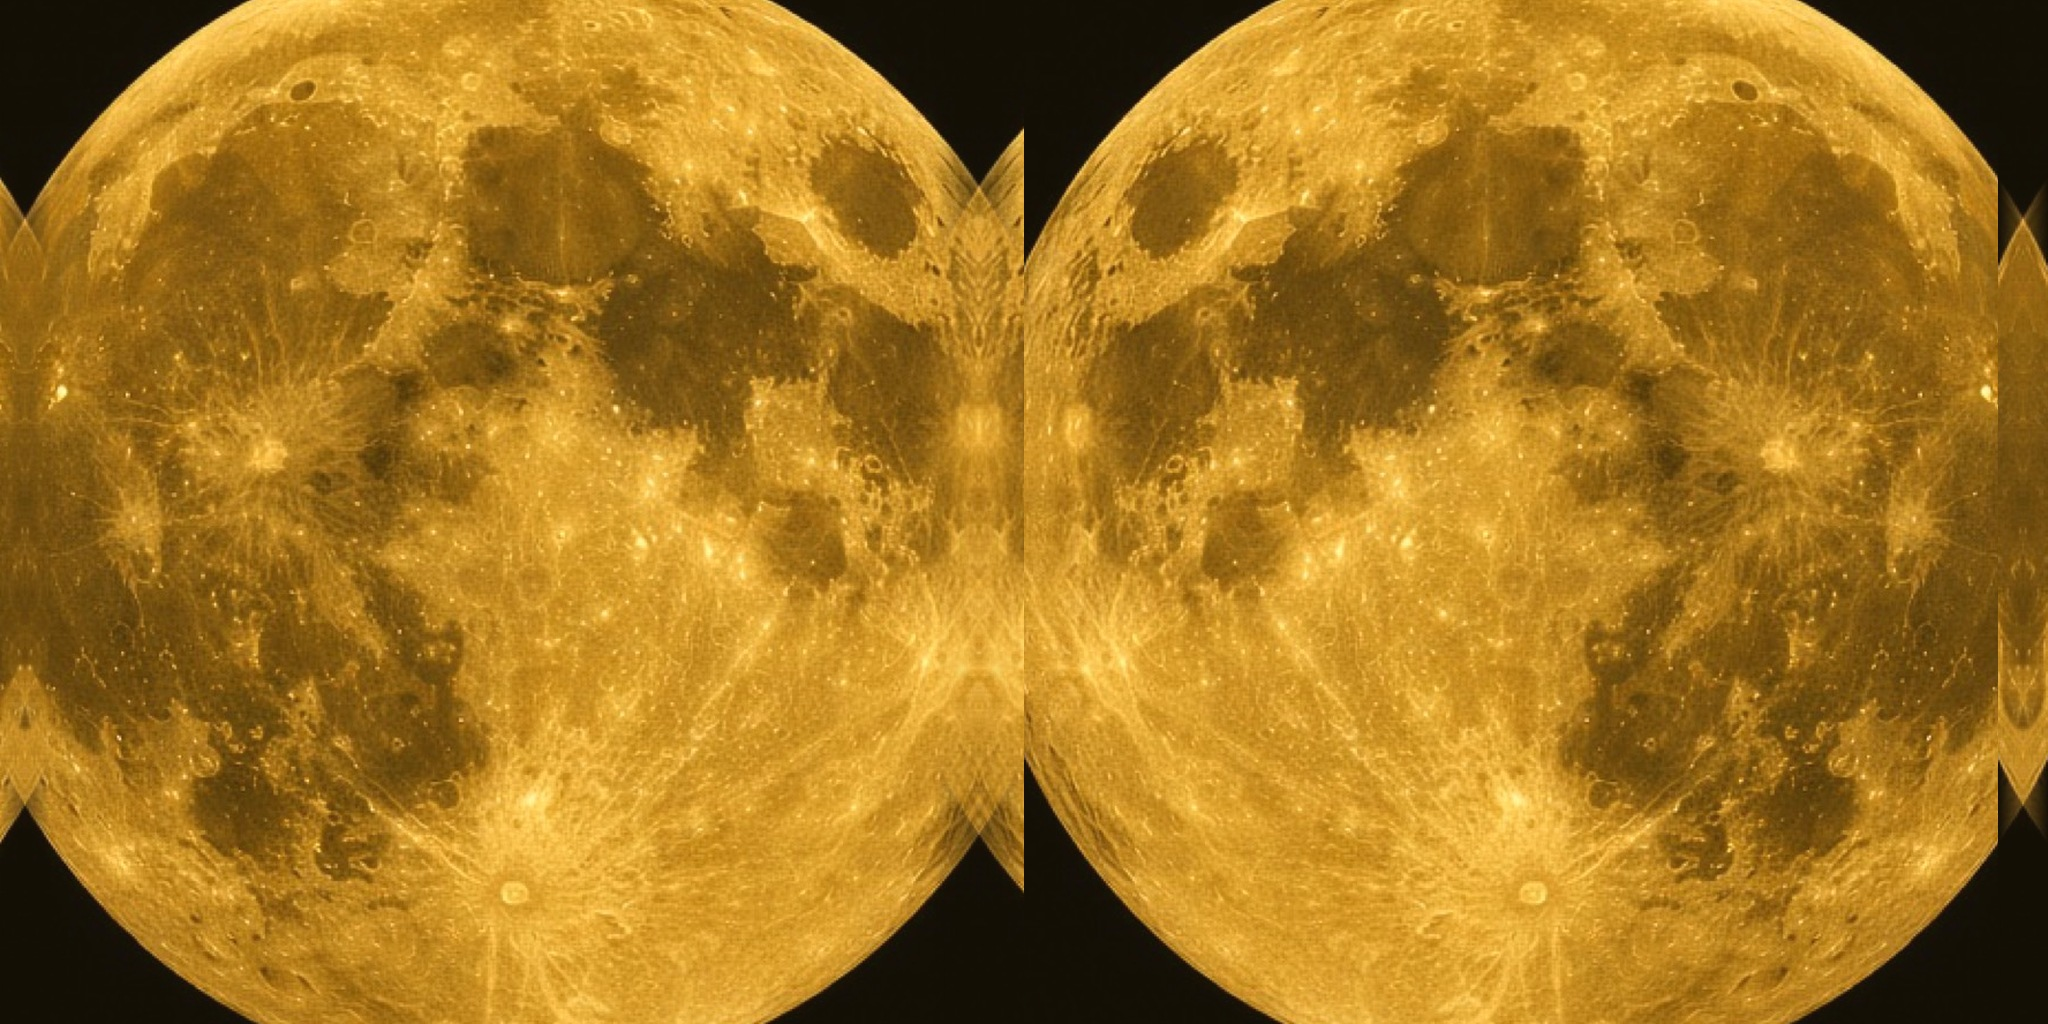
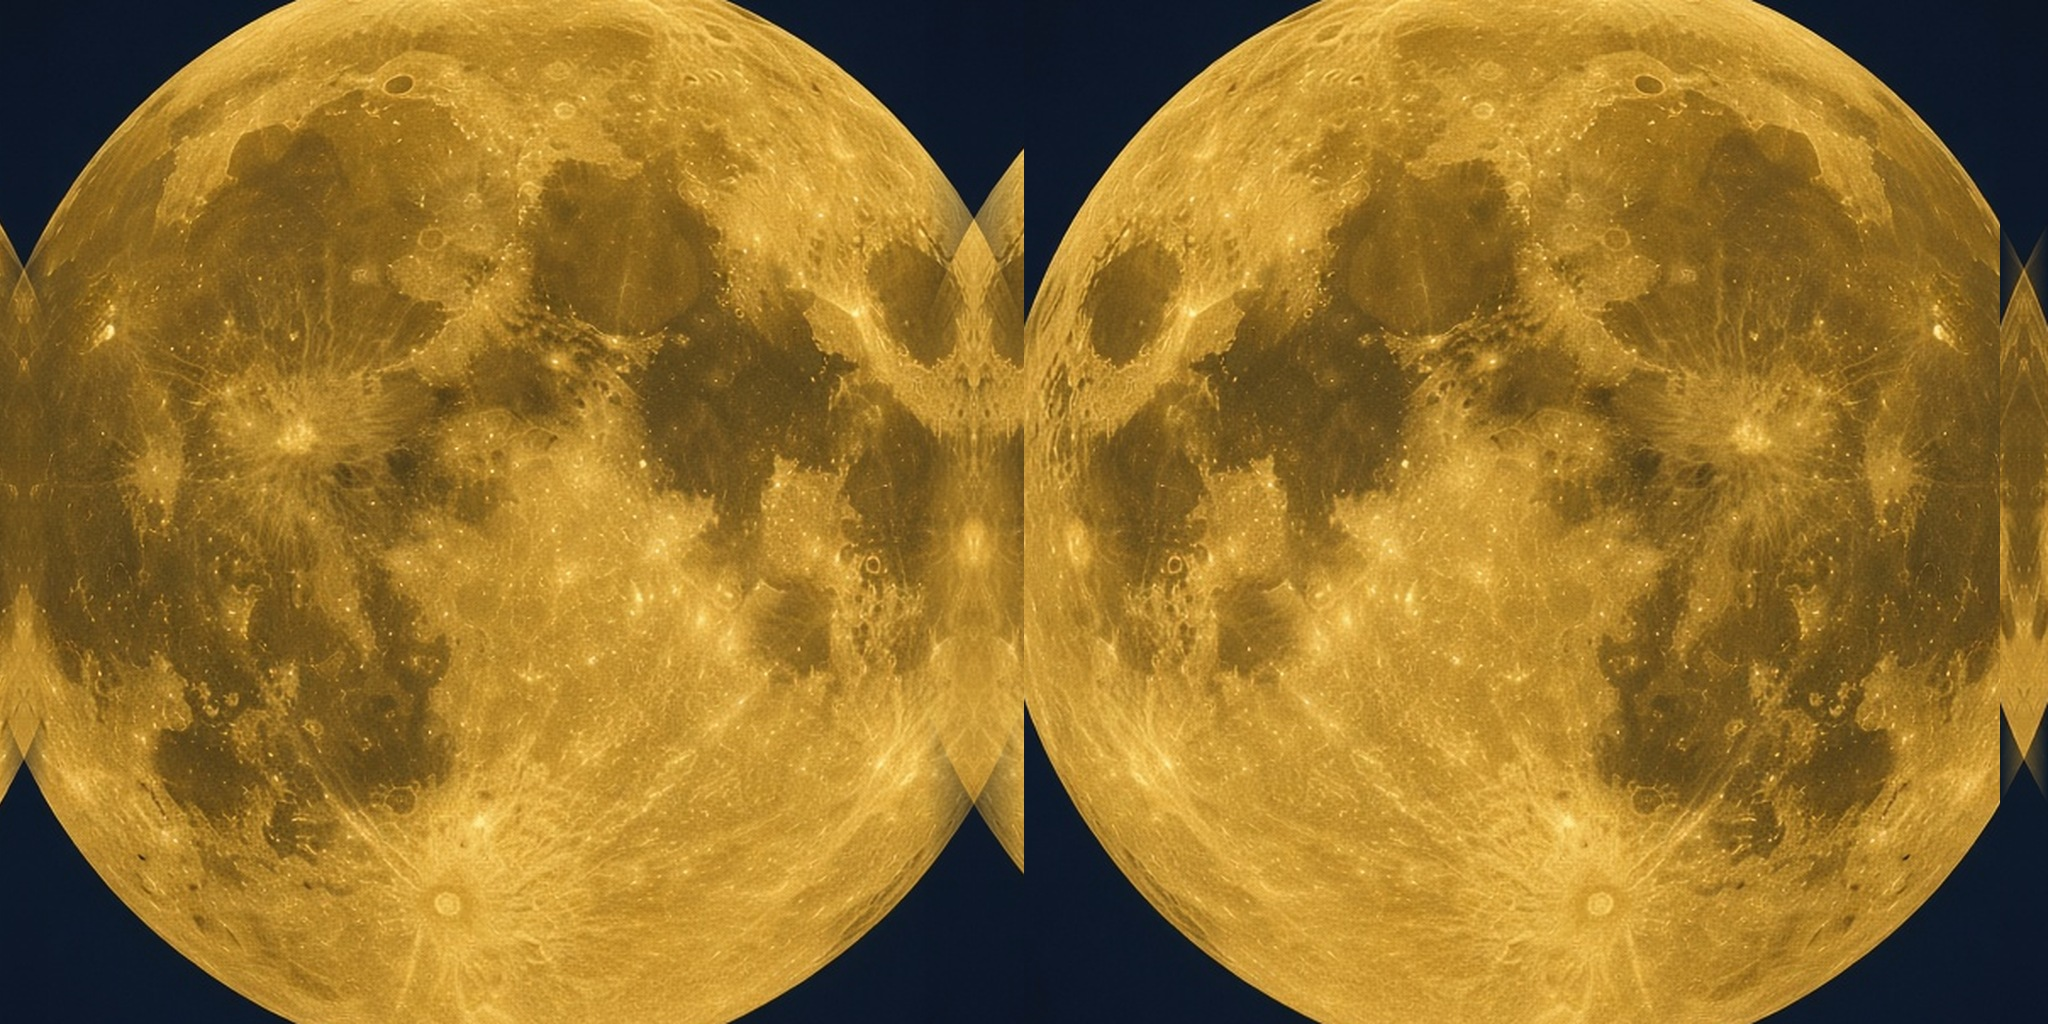
Add files via upload

diff --git a/index.html b/index.html
@@ -12,7 +12,7 @@
   <link rel="manifest" href="manifest.json"/>
   <link rel="stylesheet" href="style.css?v=206.0.0"/>
   <script src="https://cdnjs.cloudflare.com/ajax/libs/three.js/r134/three.min.js" defer></script>
-  <script src="moon.js?v=217.0.0" defer></script>
+  <script src="moon.js?v=219.0.0" defer></script>
 </head>
 <body>
 <div class="app">

diff --git a/moon.js b/moon.js
@@ -1,10 +1,10 @@
-/* moon.js v217 = v110 method
+/* moon.js v219 = v110 method
    fill disc, live % shade, visible rotate. */
 (function () {
   "use strict";
   var CFG = {
     rotationSec: 30,
-    texUrl: "moon_eq.jpg?v=217.0.0",
+    texUrl: "moon_eq.jpg?v=219.0.0",
     cdn: "https://cdn.jsdelivr.net/npm/three@0.160.0/build/three.min.js"
   };
 
